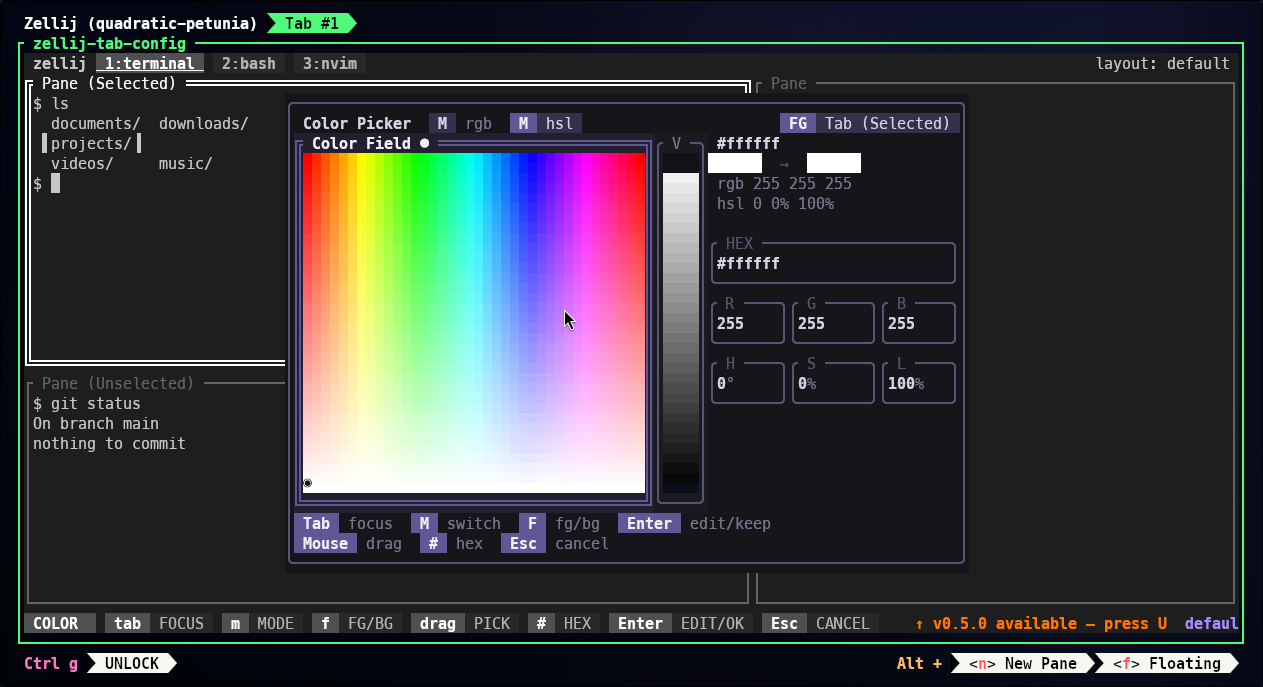
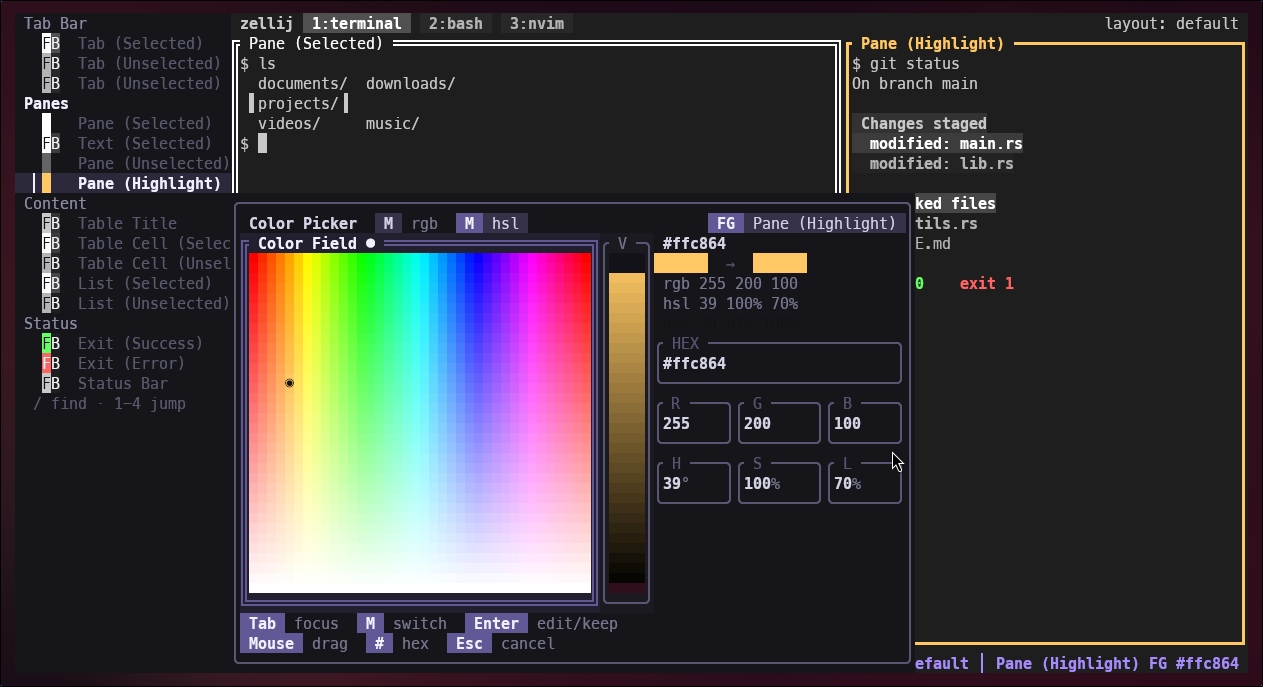
docs: use screen.png for README screenshot

diff --git a/README.md b/README.md
@@ -2,7 +2,7 @@
 
 A terminal UI for creating, editing, and applying [Zellij](https://zellij.dev) themes. Live preview of your changes across all UI components — tab bar, panes, status bar, tables, lists — before writing anything to disk.
 
-![zellij-bar-theme-config screenshot](pic.png)
+![zellij-bar-theme-config screenshot](screen.png)
 
 > **New — sidebar navigation.** The element selector is now a single **sidebar tree** on the left, grouped by section (TabBar / Panes / Content / Status). Move through every element with `↑ ↓` (or `j` / `k`), press `1`–`4` to jump straight to a group, and `/` to fuzzy-search any element. The old two-tier group/field navigation (`← →` to switch groups, `↑ ↓` within a group) has been replaced. Press `A` for an About screen with project links.
 